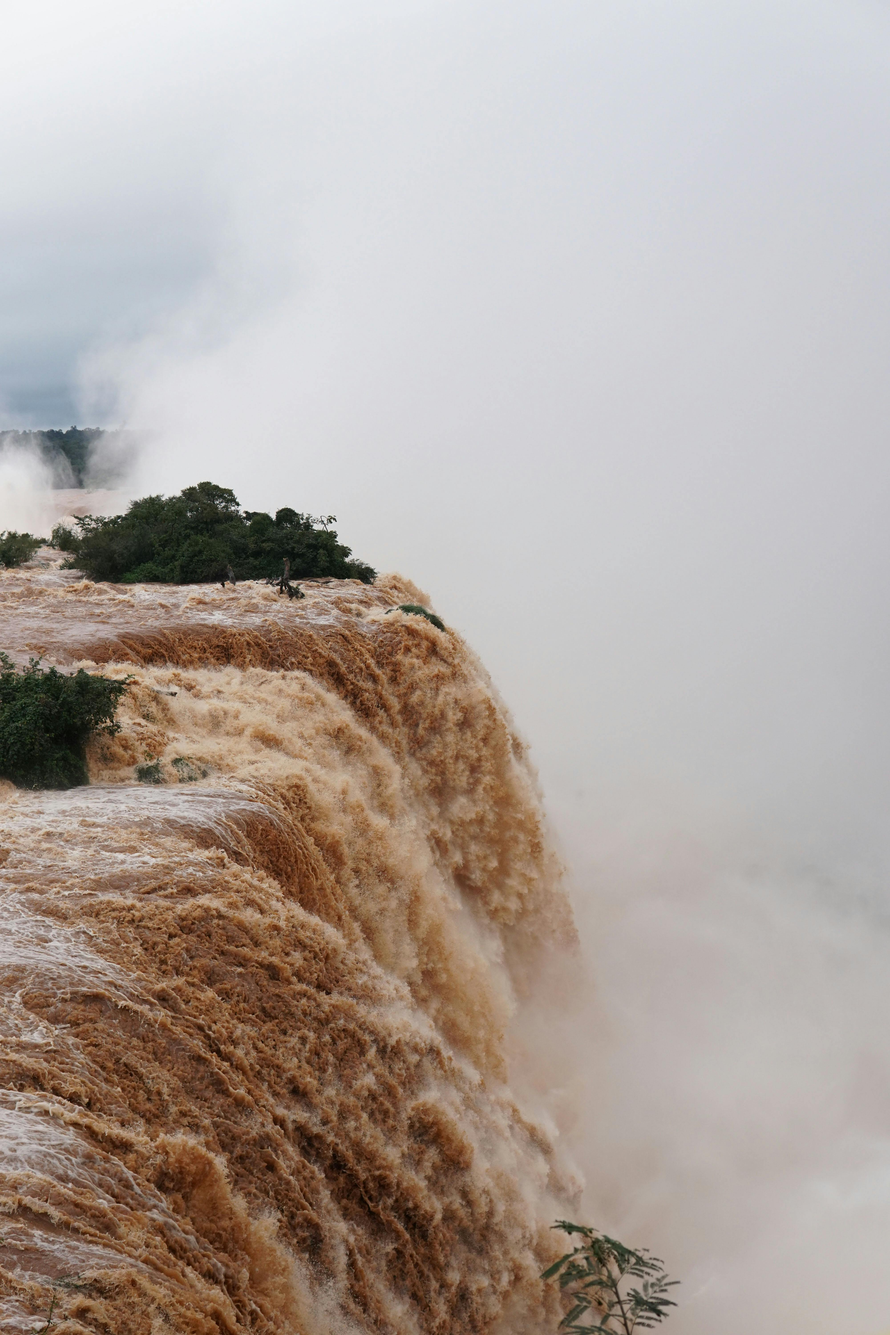
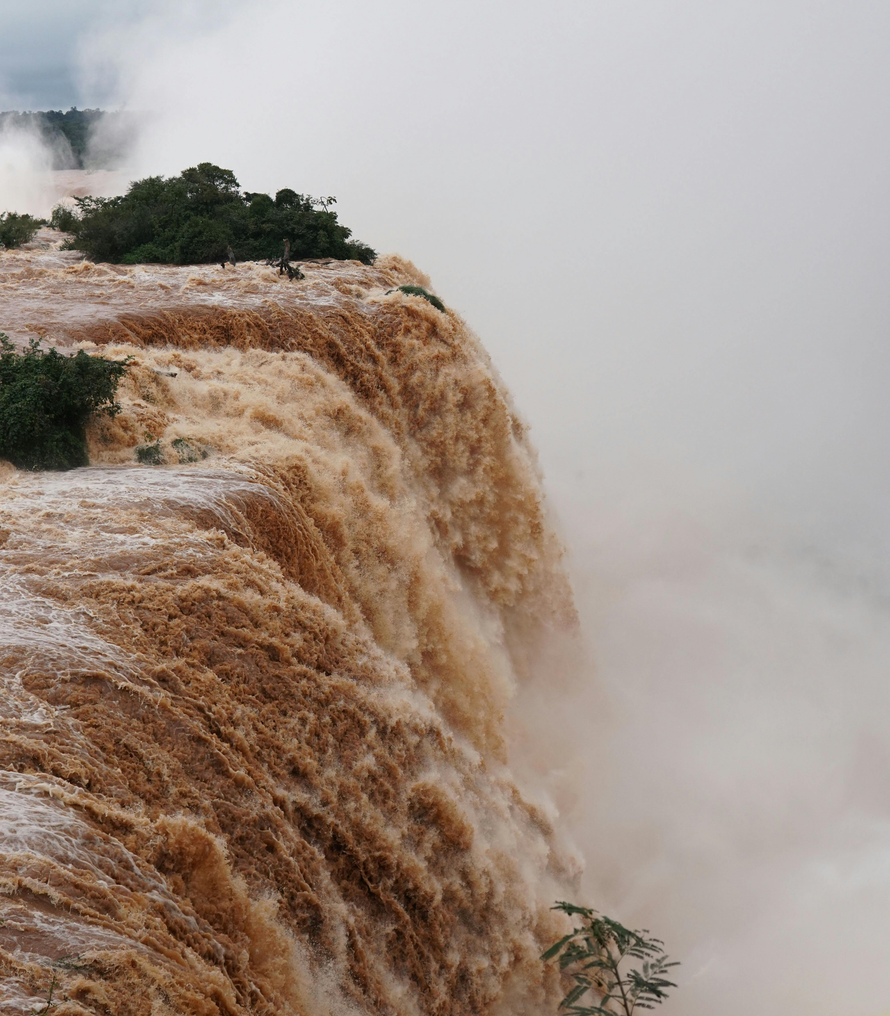
animations

diff --git a/views/flora-fauna.html b/views/flora-fauna.html
@@ -4,11 +4,12 @@
     <meta charset="UTF-8">
     <meta name="viewport" content="width=device-width, initial-scale=1.0">
     <link href="https://cdn.jsdelivr.net/npm/bootstrap@5.3.3/dist/css/bootstrap.min.css" rel="stylesheet" integrity="sha384-QWTKZyjpPEjISv5WaRU9OFeRpok6YctnYmDr5pNlyT2bRjXh0JMhjY6hW+ALEwIH" crossorigin="anonymous">
+    <link href="https://unpkg.com/aos@2.3.1/dist/aos.css" rel="stylesheet">
     <link rel="stylesheet" href="../css/styles.css">
     <link rel="stylesheet" href="https://cdnjs.cloudflare.com/ajax/libs/font-awesome/6.5.2/css/all.min.css" integrity="sha512-SnH5WK+bZxgPHs44uWIX+LLJAJ9/2PkPKZ5QiAj6Ta86w+fsb2TkcmfRyVX3pBnMFcV7oQPJkl9QevSCWr3W6A==" crossorigin="anonymous" referrerpolicy="no-referrer" />
     <title>Document</title>
 </head>
-<body class="main_body">
+<body class="main_body-2">
     <header>
       <nav class="navbar navbar-expand-xl sticky-top">
         <div class="container-fluid">
@@ -41,23 +42,23 @@
         </div>
       </nav>
     </header>
-    <h1 class="title_pages">fauna</h1>
+    <h1 class="title_pages" data-aos="zoom-in" data-aos-duration="1000" data-aos-offset="50">fauna</h1>
     <article class="ff_flex_container fauna">
-        <section class="ff_flex">
+        <section class="ff_flex" data-aos="fade-left" data-aos-duration="2000" data-aos-offset="100">
             <img src="../assets/coati-fauna.jpg" class="f_img">
             <div>
-                <h2 class="f_title">COATI</h2>
+                <h2 class="f_title" >COATI</h2>
                 <p class="f_p">Iguazu coatis are omnivorous mammals native to South America. They are recognized for their long, ringed tails and feed on fruits, insects, and small animals. They live in social groups in wooded areas and are common in the vicinity of Iguazu Falls. <span class="mobile">Although they are not endangered, they face threats such as habitat loss and poaching.</span></p>
             </div>
         </section>
-        <section class="ff_flex">
+        <section class="ff_flex" data-aos="fade-right" data-aos-duration="2000" data-aos-offset="100">
             <img src="../assets/mono-fauna.jpg" class="f_img">
             <div>
                 <h2 class="f_title">MONO CAI</h2>
                 <p class="f_p">The red howler monkey, or red howler, is a South American primate known for its reddish fur and powerful howls. It lives in tropical forests, feeds on leaves and fruits, and spends most of its time in trees. <span class="mobile"> it is not endangered, its habitat faces threats from deforestation.</span></p>
             </div>
         </section>
-        <section class="ff_flex">
+        <section class="ff_flex" data-aos="fade-left" data-aos-duration="2000" data-aos-offset="100">
             <img src="../assets/tucan-fauna.jpg" class="f_img">
             <div>
                 <h2 class="f_title">TUCAN GRANDE</h2>
@@ -65,9 +66,9 @@
             </div>
         </section>
     </article>
-    <h2 class="title_pages">flora</h2>
+    <h2 class="title_pages" data-aos="zoom-in" data-aos-duration="1000" data-aos-offset="50">flora</h2>
     <article class="ff_flex_container flora">
-        <section class="ff_flex_flora">
+        <section class="ff_flex_flora" data-aos="fade-right" data-aos-duration="2000" data-aos-offset="100">
             <img src="../assets/cedro-flora.jpg" class="f_img">
             <div>
                 <h2 class="f_title">CEDRO MISIONERO</h2>
@@ -75,14 +76,14 @@
                     The Misiones cedar is a large tree mainly found in the Gran Chaco region and the Atlantic rainforest of South America. It is valued for its ornamental beauty and its importance in conserving biodiversity in its natural habitat.<span class="mobile"> However, deforestation and indiscriminate logging have led to its decline in some areas, raising concerns for its conservation.</span></p>
             </div>
         </section>
-        <section class="ff_flex_flora">
+        <section class="ff_flex_flora" data-aos="fade-left" data-aos-duration="2000" data-aos-offset="100">
             <img src="../assets/lapacho-flora.jpg" class="f_img">
             <div>
                 <h2 class="f_title">LAPACHO</h2>
                 <p class="f_p">The lapacho is a South American tree known for its beautiful colorful flowers and durable wood. It is valued in gardening for its ornamental value and in traditional medicine for its healing properties. It is native to tropical and subtropical regions of South America and is a symbol of resilience and beauty in the region.</p>
             </div>
         </section>
-        <section class="ff_flex_flora">
+        <section class="ff_flex_flora" data-aos="fade-right" data-aos-duration="2000" data-aos-offset="100">
             <img src="../assets/palmito-flora.jpg" class="f_img">
             <div>
                 <h2 class="f_title">PALMITO</h2>
@@ -99,5 +100,9 @@
         </div>
     </footer> 
 <script src="https://cdn.jsdelivr.net/npm/bootstrap@5.3.3/dist/js/bootstrap.bundle.min.js" integrity="sha384-YvpcrYf0tY3lHB60NNkmXc5s9fDVZLESaAA55NDzOxhy9GkcIdslK1eN7N6jIeHz" crossorigin="anonymous"></script>
+<script src="https://unpkg.com/aos@2.3.1/dist/aos.js"></script>
+<script>
+  AOS.init();
+</script>
 </body>
 </html>

diff --git a/css/styles.css b/css/styles.css
@@ -73,19 +73,24 @@ html {
   padding: 0;
 }
 
-.main_body {
-  background-image: url(../assets/iguazu-copia.jpg);
+.main_body, .main_body-2 {
+  background-image: url(../assets/iguazu.jpg);
   background-repeat: no-repeat;
   background-position: top;
   background-size: cover;
   overflow-x: hidden;
 }
-.main_body header {
+
+.main_body-2 {
+  background-image: url(../assets/iguazu-2.jpg);
+}
+
+header {
   position: sticky;
   top: 0;
   z-index: 150;
 }
-.main_body header .nav-item {
+header .nav-item {
   display: flex;
   flex-direction: row;
   justify-content: space-between;
@@ -97,23 +102,30 @@ html {
   font-size: 2rem;
   padding: 0 1rem 0 2rem;
 }
-.main_body header .nav-item .nav-link {
+header .nav-item .nav-link {
   text-transform: uppercase;
   text-decoration: none;
   color: rgb(62, 68, 45);
+  transition: transform 0.1s ease-in-out;
 }
-.main_body header .navbar-brand img {
+header .nav-item .nav-link:hover {
+  transform: scale(1.05);
+}
+header .navbar-brand img {
   width: 15rem;
 }
-.main_body header .offcanvas-header a img {
+header .navbar-brand img:hover {
+  transform: scale(1.1);
+}
+header .offcanvas-header a img {
   padding: 2rem;
   width: 15rem;
 }
-.main_body header .offcanvas-body .nav-item {
+header .offcanvas-body .nav-item {
   padding-bottom: 2rem;
   z-index: 160;
 }
-.main_body header .navbar-toggler, .main_body header .btn-close {
+header .navbar-toggler, header .btn-close {
   border: none;
   font-size: 2.2rem;
   margin-right: 2rem;
@@ -253,6 +265,10 @@ footer .footer_icons a i:hover {
 .grid-items {
   justify-self: center;
   align-self: center;
+  transition: transform 0.3s ease-in-out;
+}
+.grid-items:hover {
+  transform: scale(1.1);
 }
 
 .grid-item-1 img, .grid-item-3 img, .grid-item-4 img {
@@ -437,7 +453,7 @@ form .button:hover {
     align-items: center;
     justify-content: center;
     padding: 3rem;
-    width: 95%;
+    width: 90%;
     margin: 0 auto;
   }
   .main_info .main_img {
@@ -519,7 +535,7 @@ form .button:hover {
   }
 }
 /* tablet */
-@media screen and (min-width: 768px) and (max-width: 1023px) {
+@media screen and (min-width: 768px) and (max-width: 1200px) {
   .main_info {
     padding: 2rem 4rem 2rem 2rem;
     width: -moz-fit-content;

diff --git a/scss/styles.scss b/scss/styles.scss
@@ -1,5 +1,7 @@
 @import url('https://fonts.googleapis.com/css2?family=Bebas+Neue&family=Montserrat:ital,wght@0,100..900;1,100..900&display=swap');
 
+$green : rgba(62,68,45);
+
 html {
     font-size: 62.5%;
 }
@@ -13,11 +15,16 @@ html {
     padding: 0;
 }
 .main_body {
-    background-image: url(../assets/iguazu-copia.jpg);
+    background-image: url(../assets/iguazu.jpg);
     background-repeat: no-repeat;
     background-position: top;
     background-size: cover;
     overflow-x: hidden;
+    }
+.main_body-2{
+    @extend .main_body;
+    background-image: url(../assets/iguazu-2.jpg);
+    }
     header {
         position: sticky;
         top: 0;
@@ -37,11 +44,18 @@ html {
                 text-transform: uppercase;
                 text-decoration: none;
                 color: rgba(62,68,45);
+                transition: transform 0.1s ease-in-out;
+                    &:hover {
+                        transform: scale(1.05);
+                    }
             }
         }
         .navbar-brand {
             img{
                 width: 15rem;
+                    &:hover {
+                        transform: scale(1.1);
+                    }
             }
         }
         .offcanvas-header{
@@ -64,7 +78,6 @@ html {
             margin-right: 2rem;
         }
     }
-}
 
 /* ---------------------------- LANDING PAGE ------------------------ */
 
@@ -169,7 +182,7 @@ html {
         align-items: center;
         justify-content: center;
         padding: 3rem;
-        width: 95%;
+        width: 90%;
         margin: 0 auto;
             .main_img {
                 text-align: center;
@@ -266,7 +279,7 @@ html {
 
 /* tablet */
 
-@media screen and (min-width: 768px) and (max-width: 1023px){
+@media screen and (min-width: 768px) and (max-width: 1200px){
 
     .main_info {
         padding: 2rem 4rem 2rem 2rem;
@@ -318,6 +331,6 @@ html {
 
 /* desktop */
 
-@media screen and (min-width: 1024px){
+@media screen and (min-width: 1201px){
 
 }

diff --git a/views/activities.html b/views/activities.html
@@ -8,7 +8,7 @@
     <link rel="stylesheet" href="https://cdnjs.cloudflare.com/ajax/libs/font-awesome/6.5.2/css/all.min.css" integrity="sha512-SnH5WK+bZxgPHs44uWIX+LLJAJ9/2PkPKZ5QiAj6Ta86w+fsb2TkcmfRyVX3pBnMFcV7oQPJkl9QevSCWr3W6A==" crossorigin="anonymous" referrerpolicy="no-referrer" />
     <title>Document</title>
 </head>
-<body class="main_body">
+<body class="main_body-2">
     <header>
       <nav class="navbar navbar-expand-xl sticky-top">
         <div class="container-fluid">

diff --git a/views/contact.html b/views/contact.html
@@ -8,7 +8,7 @@
     <link rel="stylesheet" href="https://cdnjs.cloudflare.com/ajax/libs/font-awesome/6.5.2/css/all.min.css" integrity="sha512-SnH5WK+bZxgPHs44uWIX+LLJAJ9/2PkPKZ5QiAj6Ta86w+fsb2TkcmfRyVX3pBnMFcV7oQPJkl9QevSCWr3W6A==" crossorigin="anonymous" referrerpolicy="no-referrer" />
     <title>Document</title>
 </head>
-<body class="main_body">
+<body class="main_body-2">
     <header>
       <nav class="navbar navbar-expand-xl sticky-top">
         <div class="container-fluid">

diff --git a/views/waterfalls-jungle.html b/views/waterfalls-jungle.html
@@ -8,7 +8,7 @@
     <link rel="stylesheet" href="https://cdnjs.cloudflare.com/ajax/libs/font-awesome/6.5.2/css/all.min.css" integrity="sha512-SnH5WK+bZxgPHs44uWIX+LLJAJ9/2PkPKZ5QiAj6Ta86w+fsb2TkcmfRyVX3pBnMFcV7oQPJkl9QevSCWr3W6A==" crossorigin="anonymous" referrerpolicy="no-referrer" />
     <title>Document</title>
 </head>
-<body class="main_body">
+<body class="main_body-2">
     <header>
       <nav class="navbar navbar-expand-xl sticky-top">
         <div class="container-fluid">

diff --git a/scss/_activities.scss b/scss/_activities.scss
@@ -62,6 +62,10 @@
 .grid-items {
     justify-self: center;
     align-self: center;
+    transition: transform 0.3s ease-in-out;
+        &:hover {
+            transform: scale(1.1);
+        }
 }
 .grid-item-1 img, .grid-item-3 img, .grid-item-4 img{
     height: 30rem;
